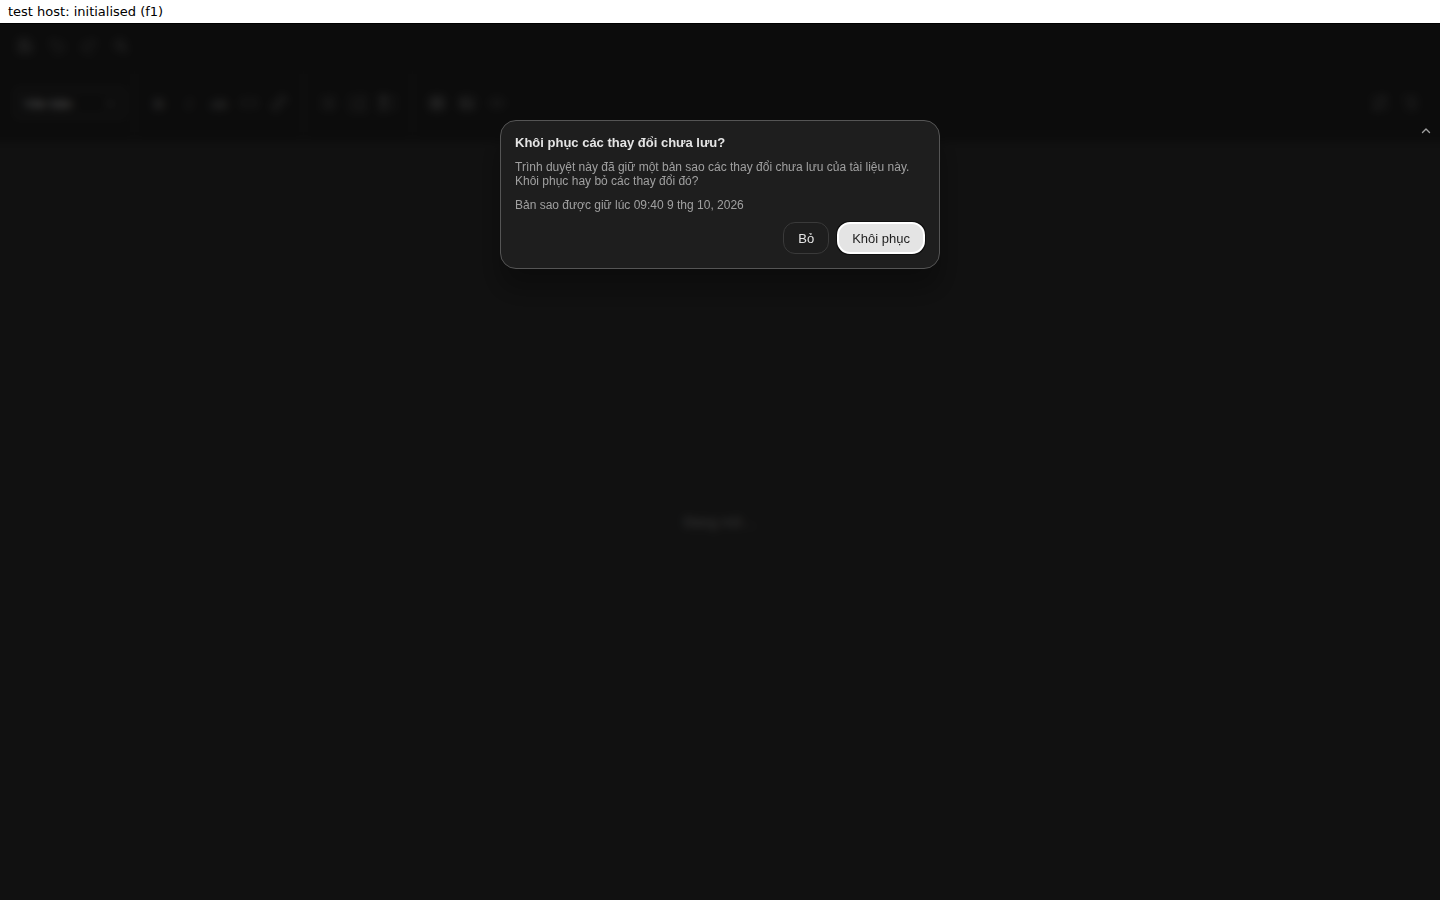
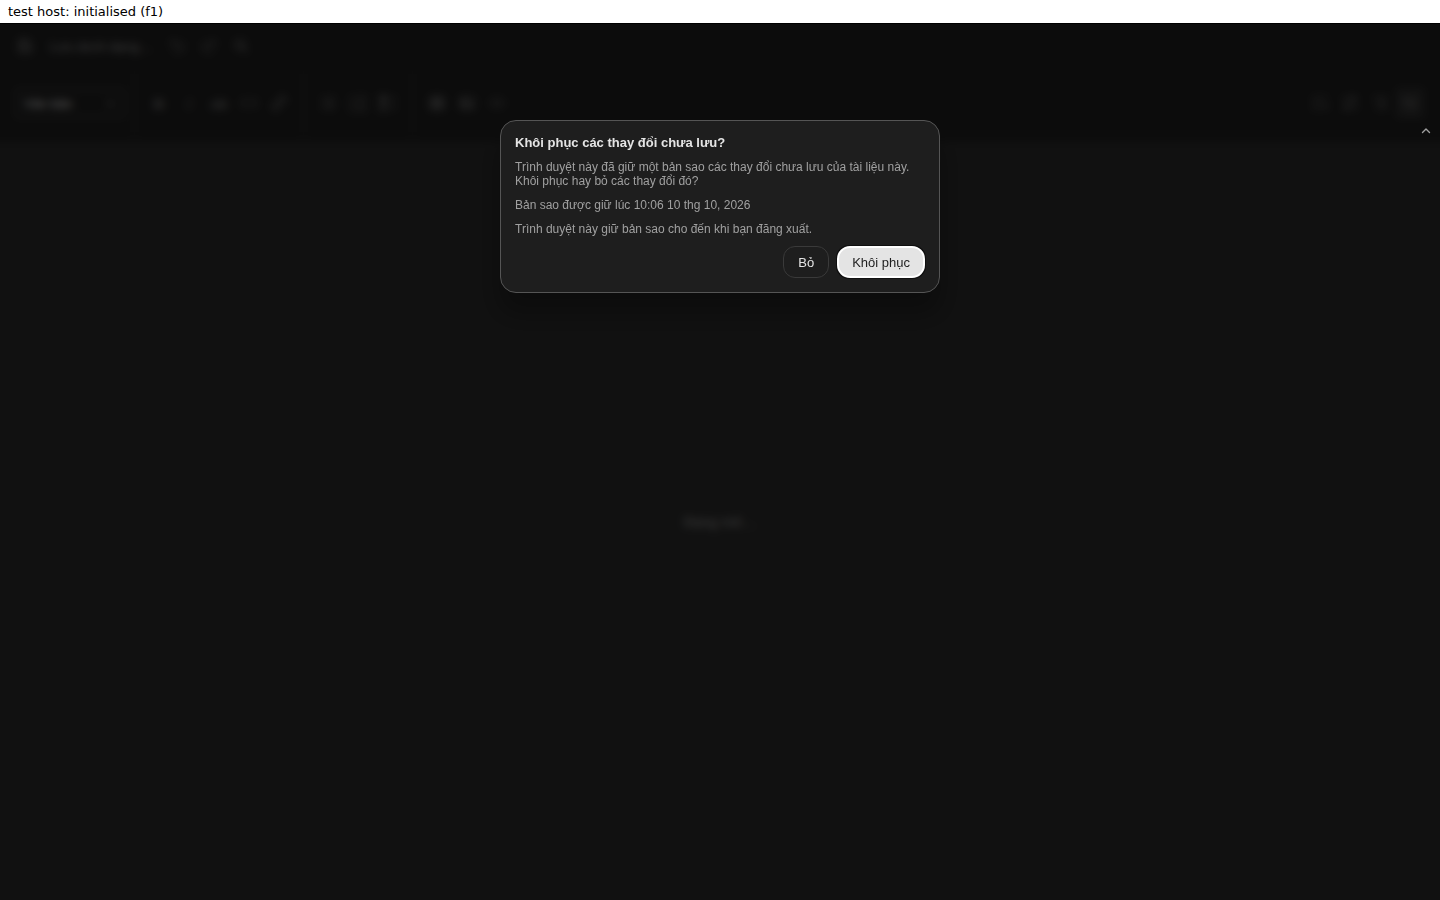
fix(web): lint, keep the wasm module's inputs, refresh the prompt screenshots
The cloud replica found an unused variable in the text save path and that
my one-line comment edit in wasm/Cargo.toml changed the sidecar module's
sha256 (the staging directory name is derived from the inputs and reaches
the binary), so the edit is reverted and the sync notes say why. The prompt
screenshots now show the new 'kept until you sign out' line.

Refs: UNI-1014

Changed region(s): [[0.375, 0.2178, 0.6562, 0.3111]]

diff --git a/web/modules/shared/text-webapi.ts b/web/modules/shared/text-webapi.ts
@@ -464,7 +464,6 @@ export function createTextWebApi(
   async function saveExisting(fileId: string, data: string): Promise<TextSaveResult> {
     const etag = files.get(fileId)?.etag
     const bytes = encodeText(data)
-    const size = bytes.byteLength
     const res = await sendSave(() =>
       port.request(
         'api.save',

diff --git a/docs/upstream/UPSTREAM_SYNC.md b/docs/upstream/UPSTREAM_SYNC.md
@@ -67,6 +67,10 @@ upstream sync. Details and the full list are in [`SHEETS_WASM_ENGINE.md`](SHEETS
 - `apps/sheets/native/xlsx-engine/wasm/` is UniWork-owned (ours; keep).
 - After a sync that touches the engine, run `node apps/sheets/native/xlsx-engine/wasm/build-wasm.mjs`. A checksum
   mismatch is expected when upstream changed the engine: check the web tests, then `--update-checksum` and commit.
+- Do not touch any file under `wasm/` casually, not even a comment in `wasm/Cargo.toml`: the staging directory
+  `build-wasm.mjs` compiles in is named after a hash of those files, and that name reaches the binary (symbol hashes),
+  so a one-line comment edit changed the module's sha256 (verified 2026-10-10: original 7fa3df40…, comment edited
+  956c2dae… on the same host). Any edit there needs `--update-checksum` in the same commit.
 
 ## Web module refactors (fork delta, UNI-1014 / UNI-1015 / UNI-1016)
 
